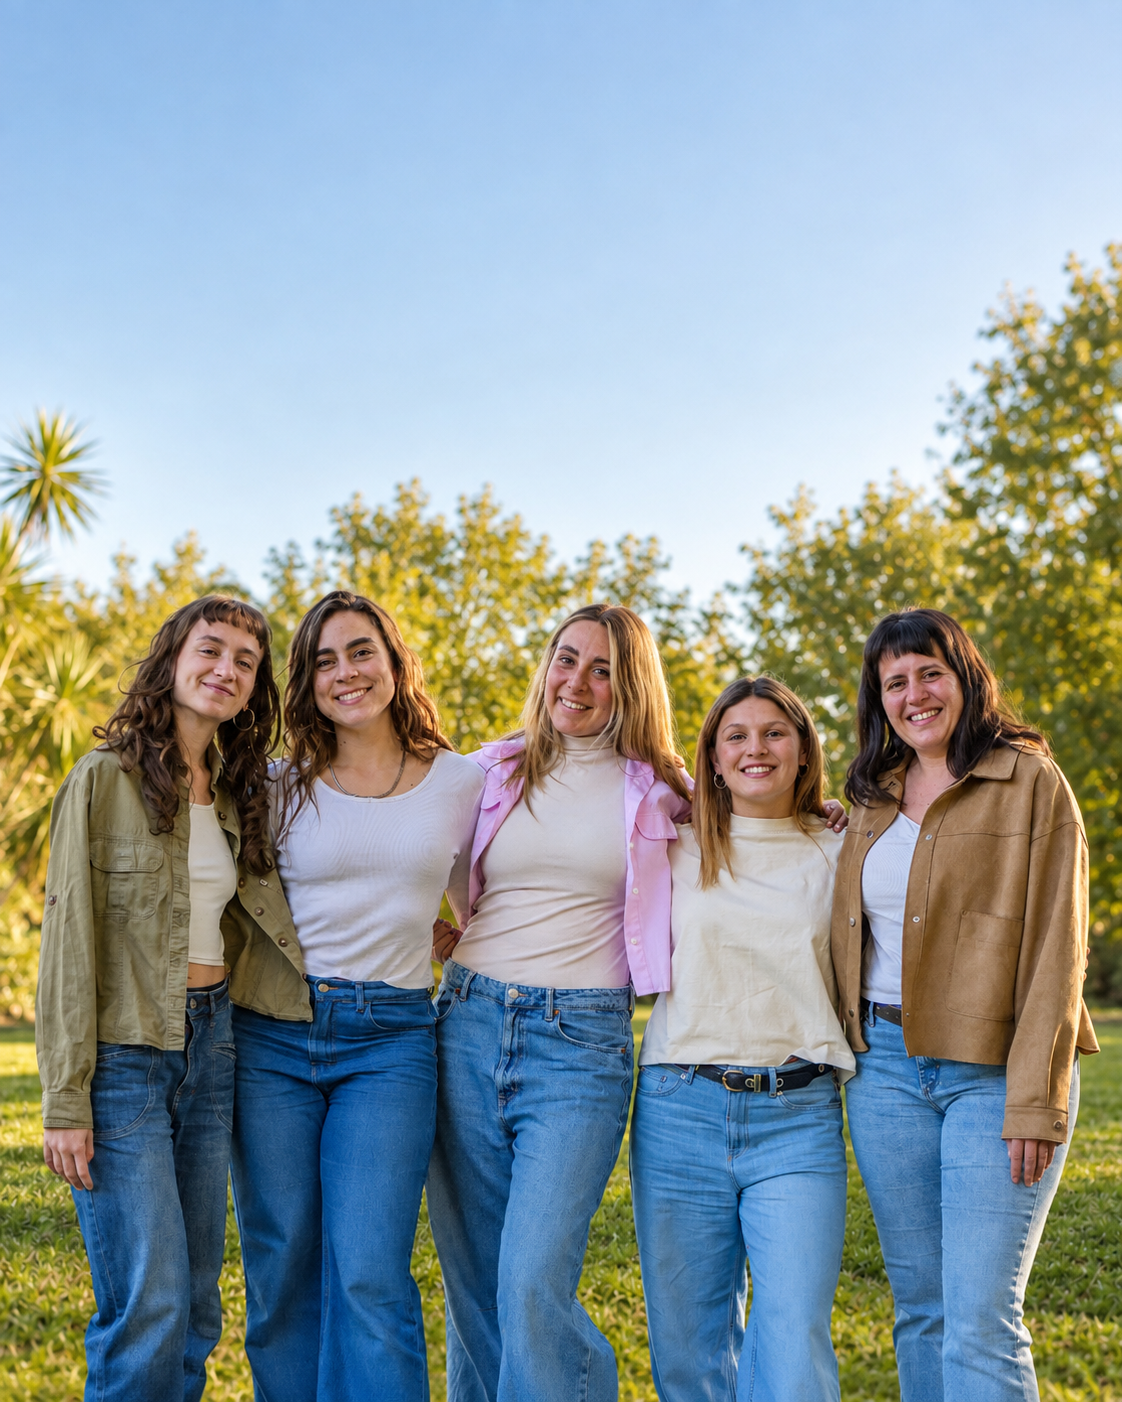
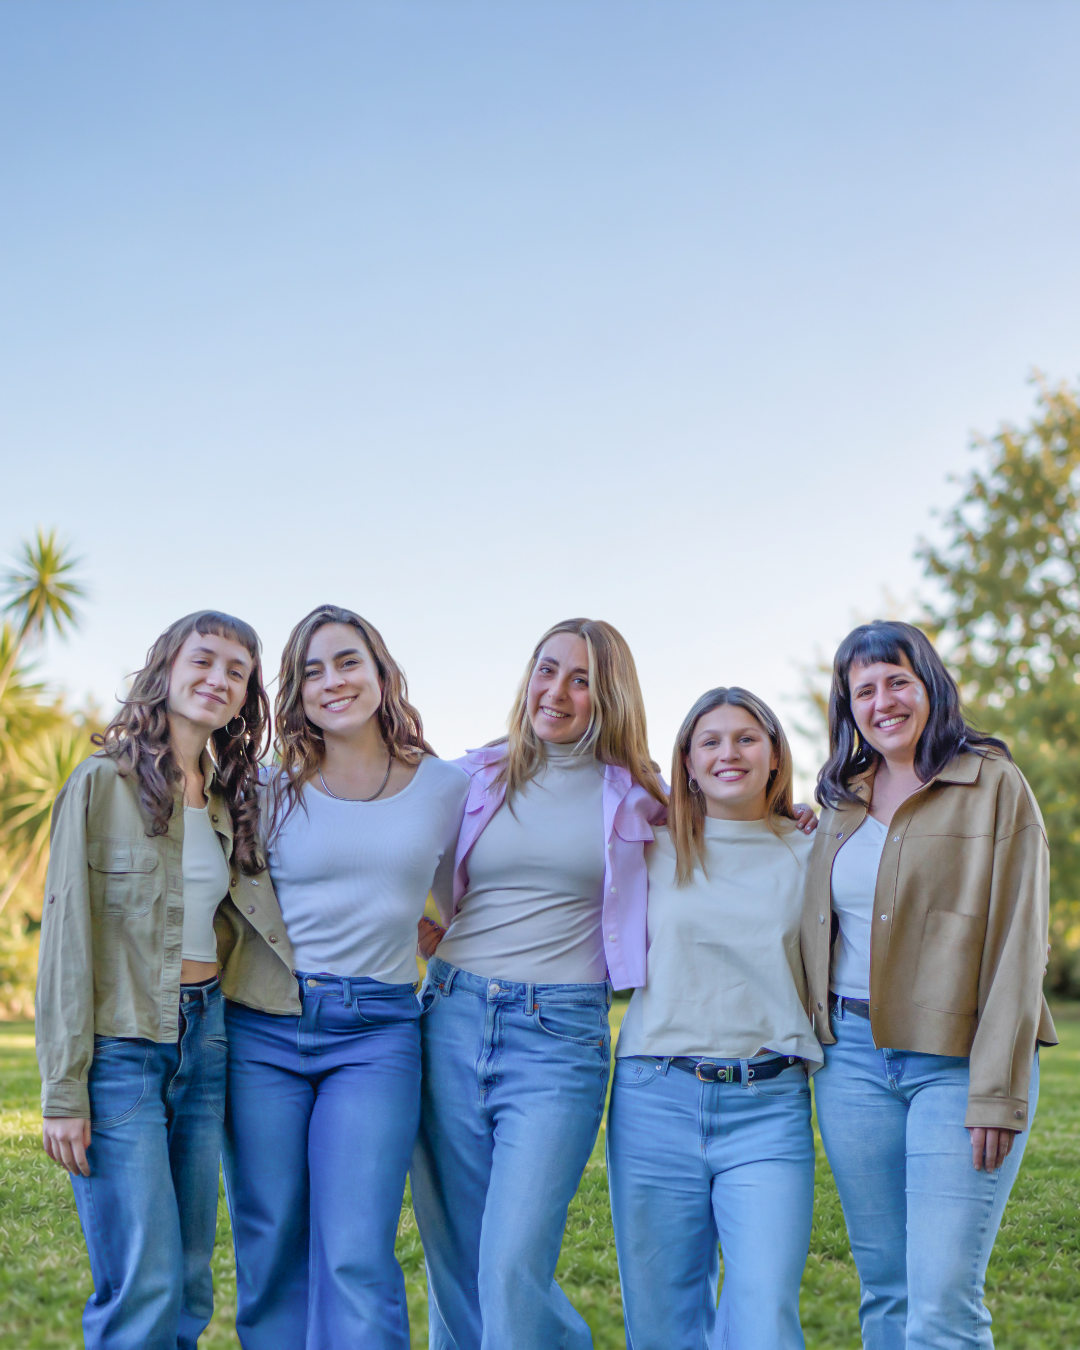
fix photo's order

diff --git a/app/giu/page.tsx b/app/giu/page.tsx
@@ -42,13 +42,7 @@ const teamMembers = [
     image: '/images/giu/CECI.png',
     role: 'Ingeniera Comercial & Desarrollo Estratégico',
     description: 'Aporta una mirada estratégica al crecimiento de Giuliett, liderando la planificación, el desarrollo de la marca y los objetivos que acompañan su evolución.',
-  },
-  {
-    name: '👻👻👻Marco👻👻👻',
-    image: '/images/giu/MARCO.jpeg',
-    role: 'Programador de Giuliett',
-    description: 'Convierte ideas en realidad digital y resuelve cosas mientras come torta',
-  },
+  }
 ] as const
 
 export default function GiuPage() {
